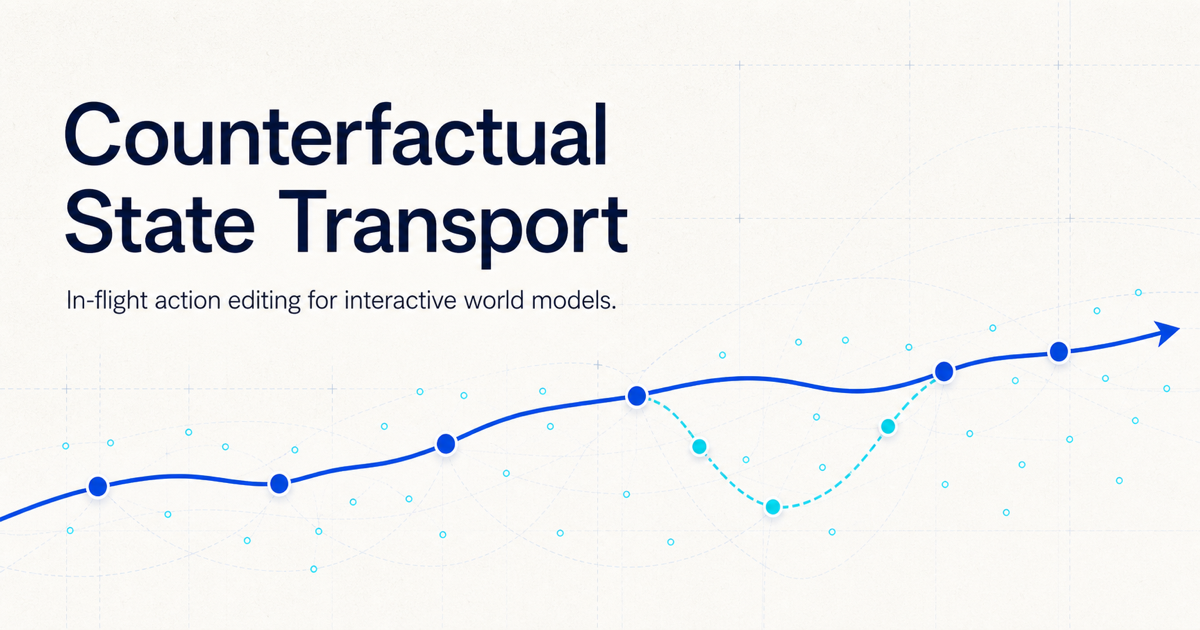
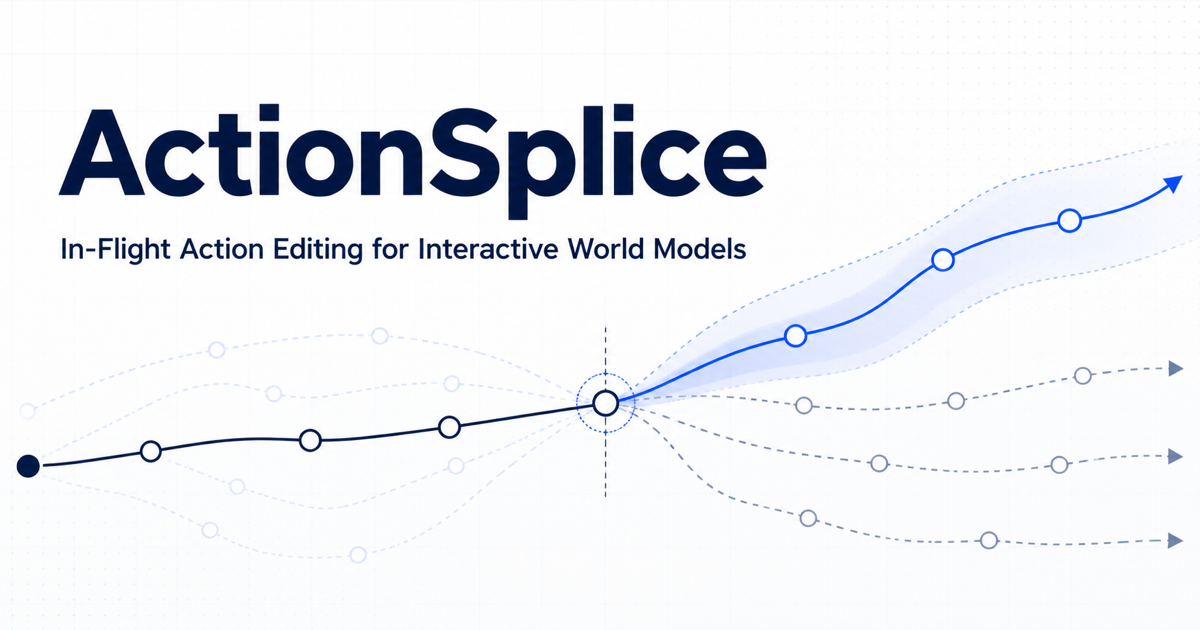
Rename project to ActionSplice

diff --git a/app/page.tsx b/app/page.tsx
@@ -81,9 +81,9 @@ export default function Home() {
   return (
     <main>
       <nav className="site-nav" aria-label="Primary navigation">
-        <a className="brand" href="#top" aria-label="CST home">
-          <span className="brand-mark">C</span>
-          <span>Counterfactual State Transport</span>
+        <a className="brand" href="#top" aria-label="ActionSplice home">
+          <span className="brand-mark">A</span>
+          <span>ActionSplice</span>
         </a>
         <div className="nav-links">
           <a href="#method">Method</a>
@@ -99,7 +99,7 @@ export default function Home() {
             <span>World Models</span>
           </div>
           <h1>
-            Correct or Compose:
+            ActionSplice:
             <span>In-Flight Action Editing for Interactive World Models</span>
           </h1>
           <p className="hero-authors">
@@ -199,8 +199,8 @@ export default function Home() {
       </section>
 
       <footer>
-        <strong>Counterfactual State Transport</strong>
-        <p>Correct or Compose: In-Flight Action Editing for Interactive World Models</p>
+        <strong>ActionSplice</strong>
+        <p>In-Flight Action Editing for Interactive World Models</p>
         <span>Internal research preview · 2026</span>
       </footer>
     </main>

diff --git a/app/layout.tsx b/app/layout.tsx
@@ -14,18 +14,18 @@ const geistMono = Geist_Mono({
 
 export const metadata: Metadata = {
   metadataBase: new URL('https://counterfactual-state-transport.ptgh.chatgpt.site'),
-  title: 'Counterfactual State Transport',
+  title: 'ActionSplice: In-Flight Action Editing for Interactive World Models',
   description: 'In-flight action editing for interactive world models.',
   openGraph: {
-    title: 'Counterfactual State Transport',
+    title: 'ActionSplice: In-Flight Action Editing for Interactive World Models',
     description: 'In-flight action editing for interactive world models.',
     type: 'website',
     url: '/',
-    images: [{ url: '/og.png', width: 1200, height: 630, alt: 'Counterfactual State Transport' }],
+    images: [{ url: '/og.png', width: 1200, height: 630, alt: 'ActionSplice' }],
   },
   twitter: {
     card: 'summary_large_image',
-    title: 'Counterfactual State Transport',
+    title: 'ActionSplice: In-Flight Action Editing for Interactive World Models',
     description: 'In-flight action editing for interactive world models.',
     images: ['/og.png'],
   },
